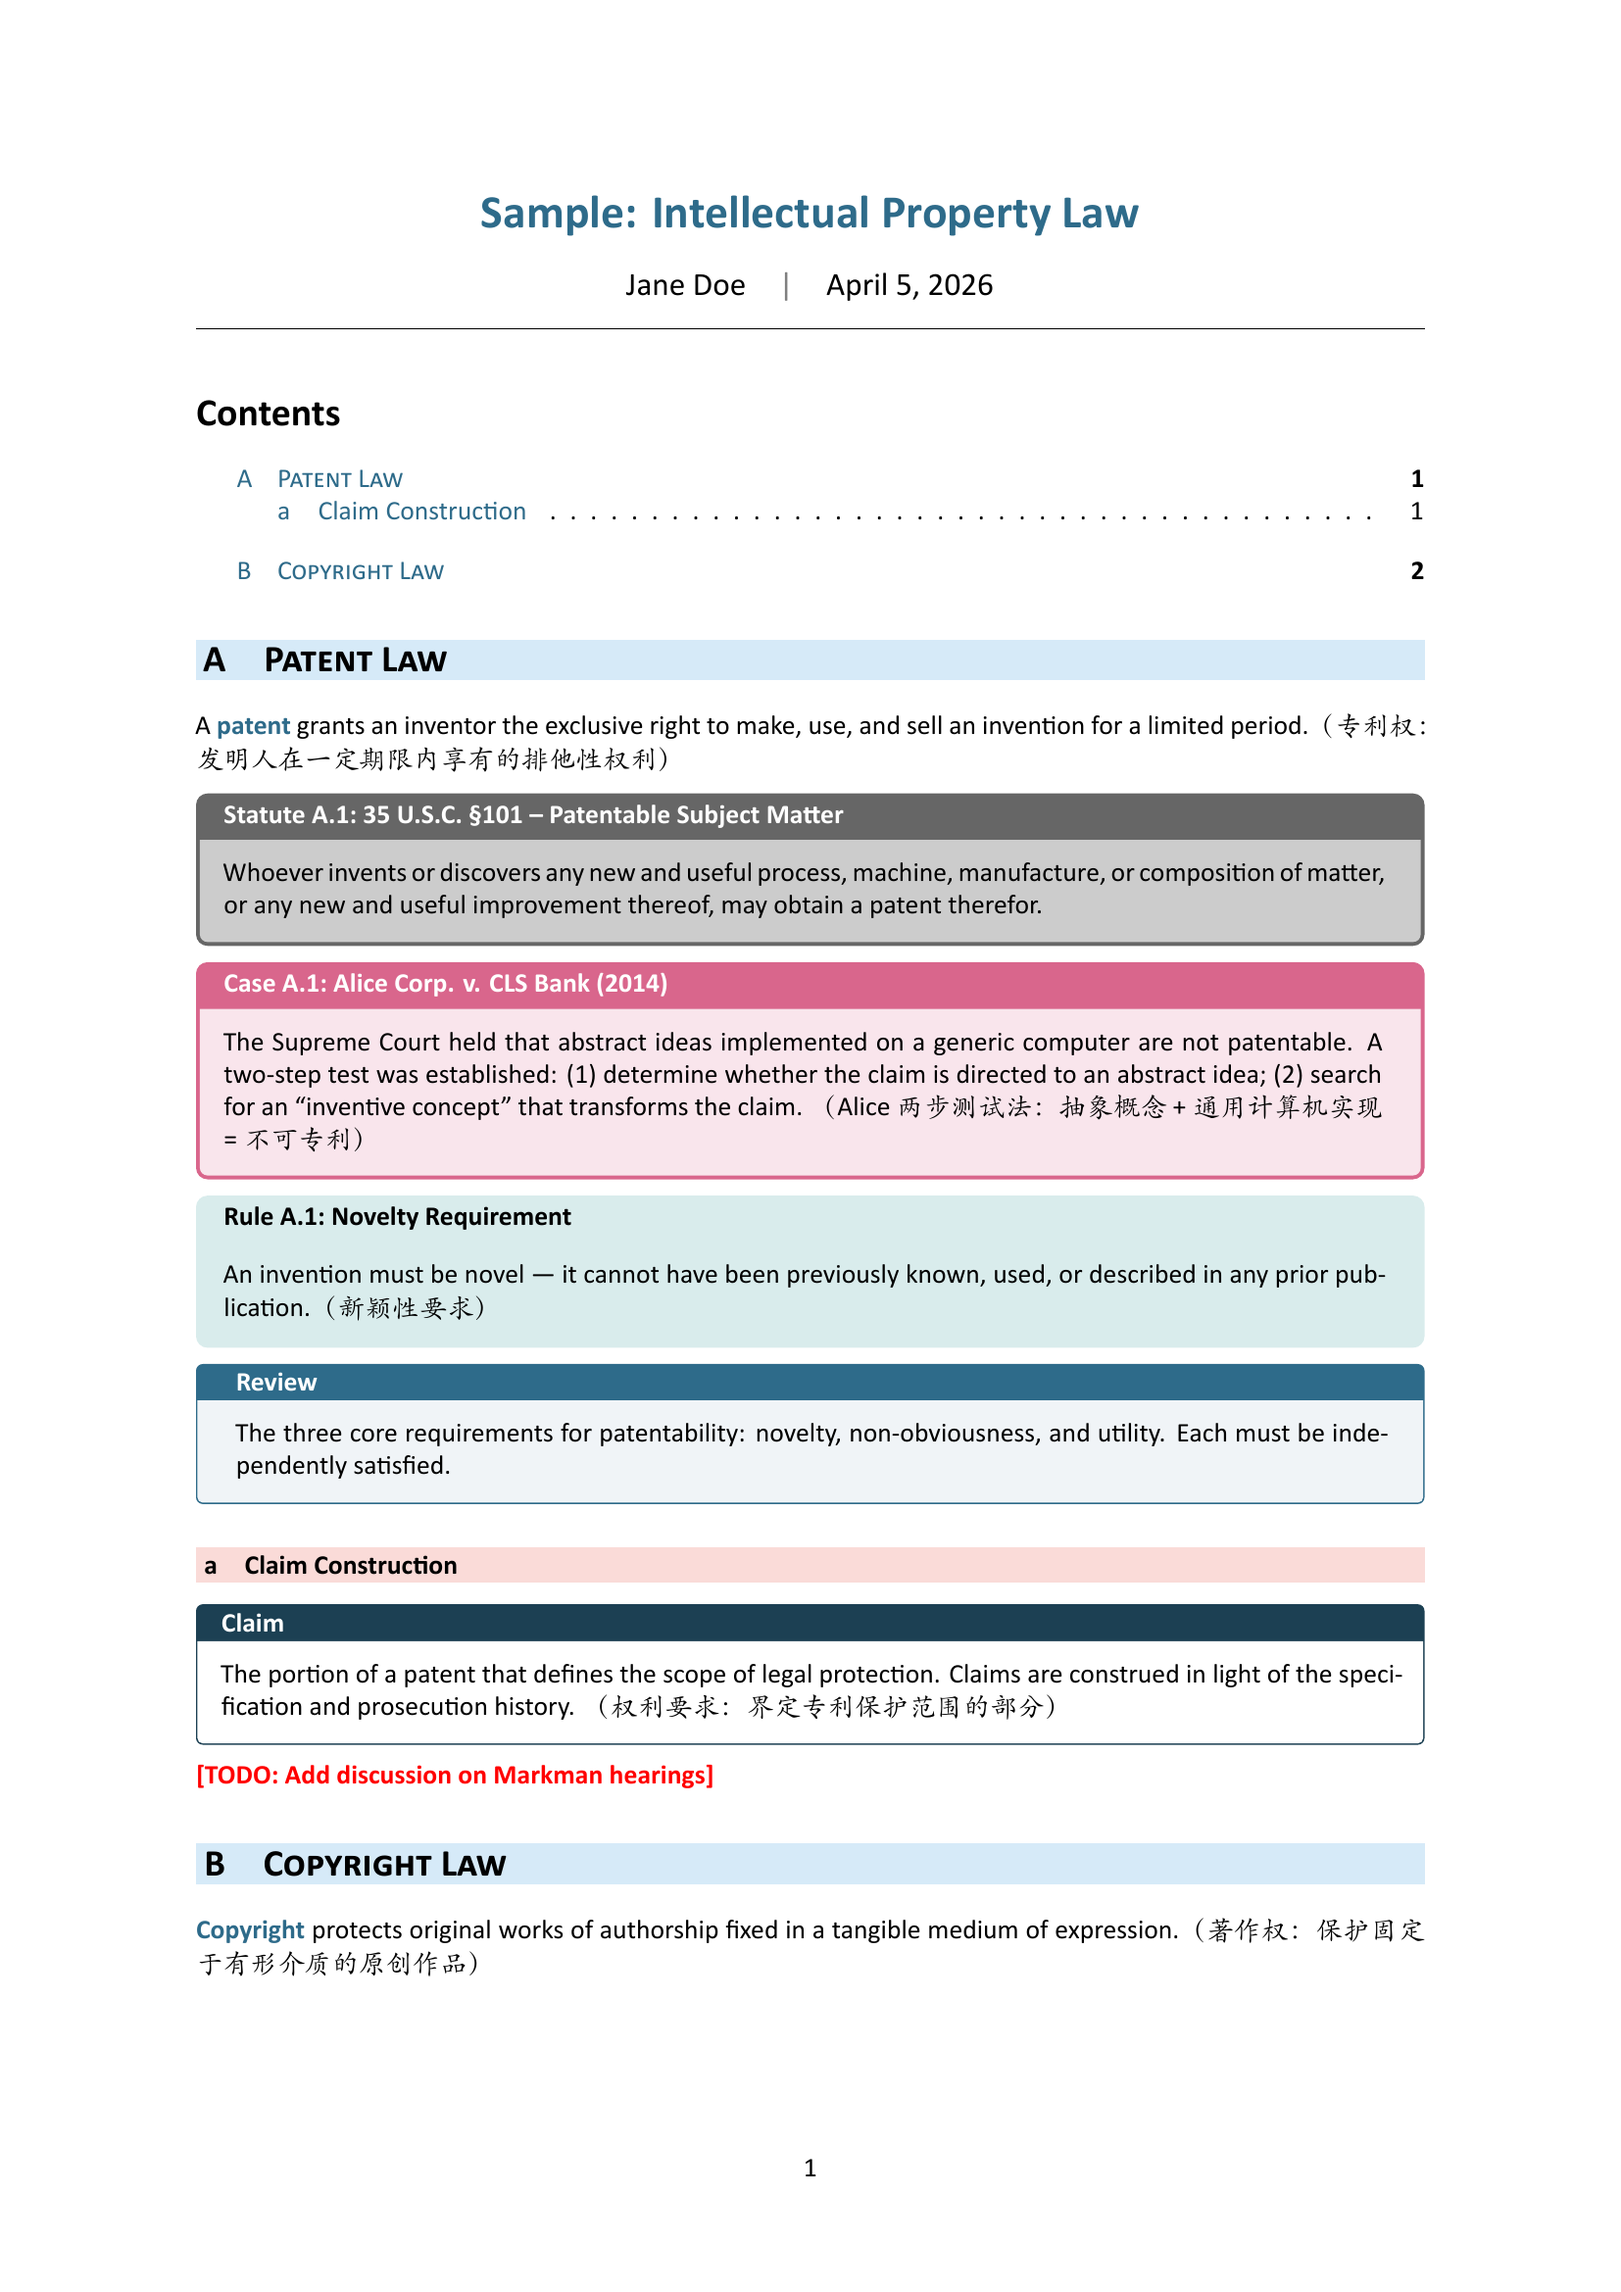
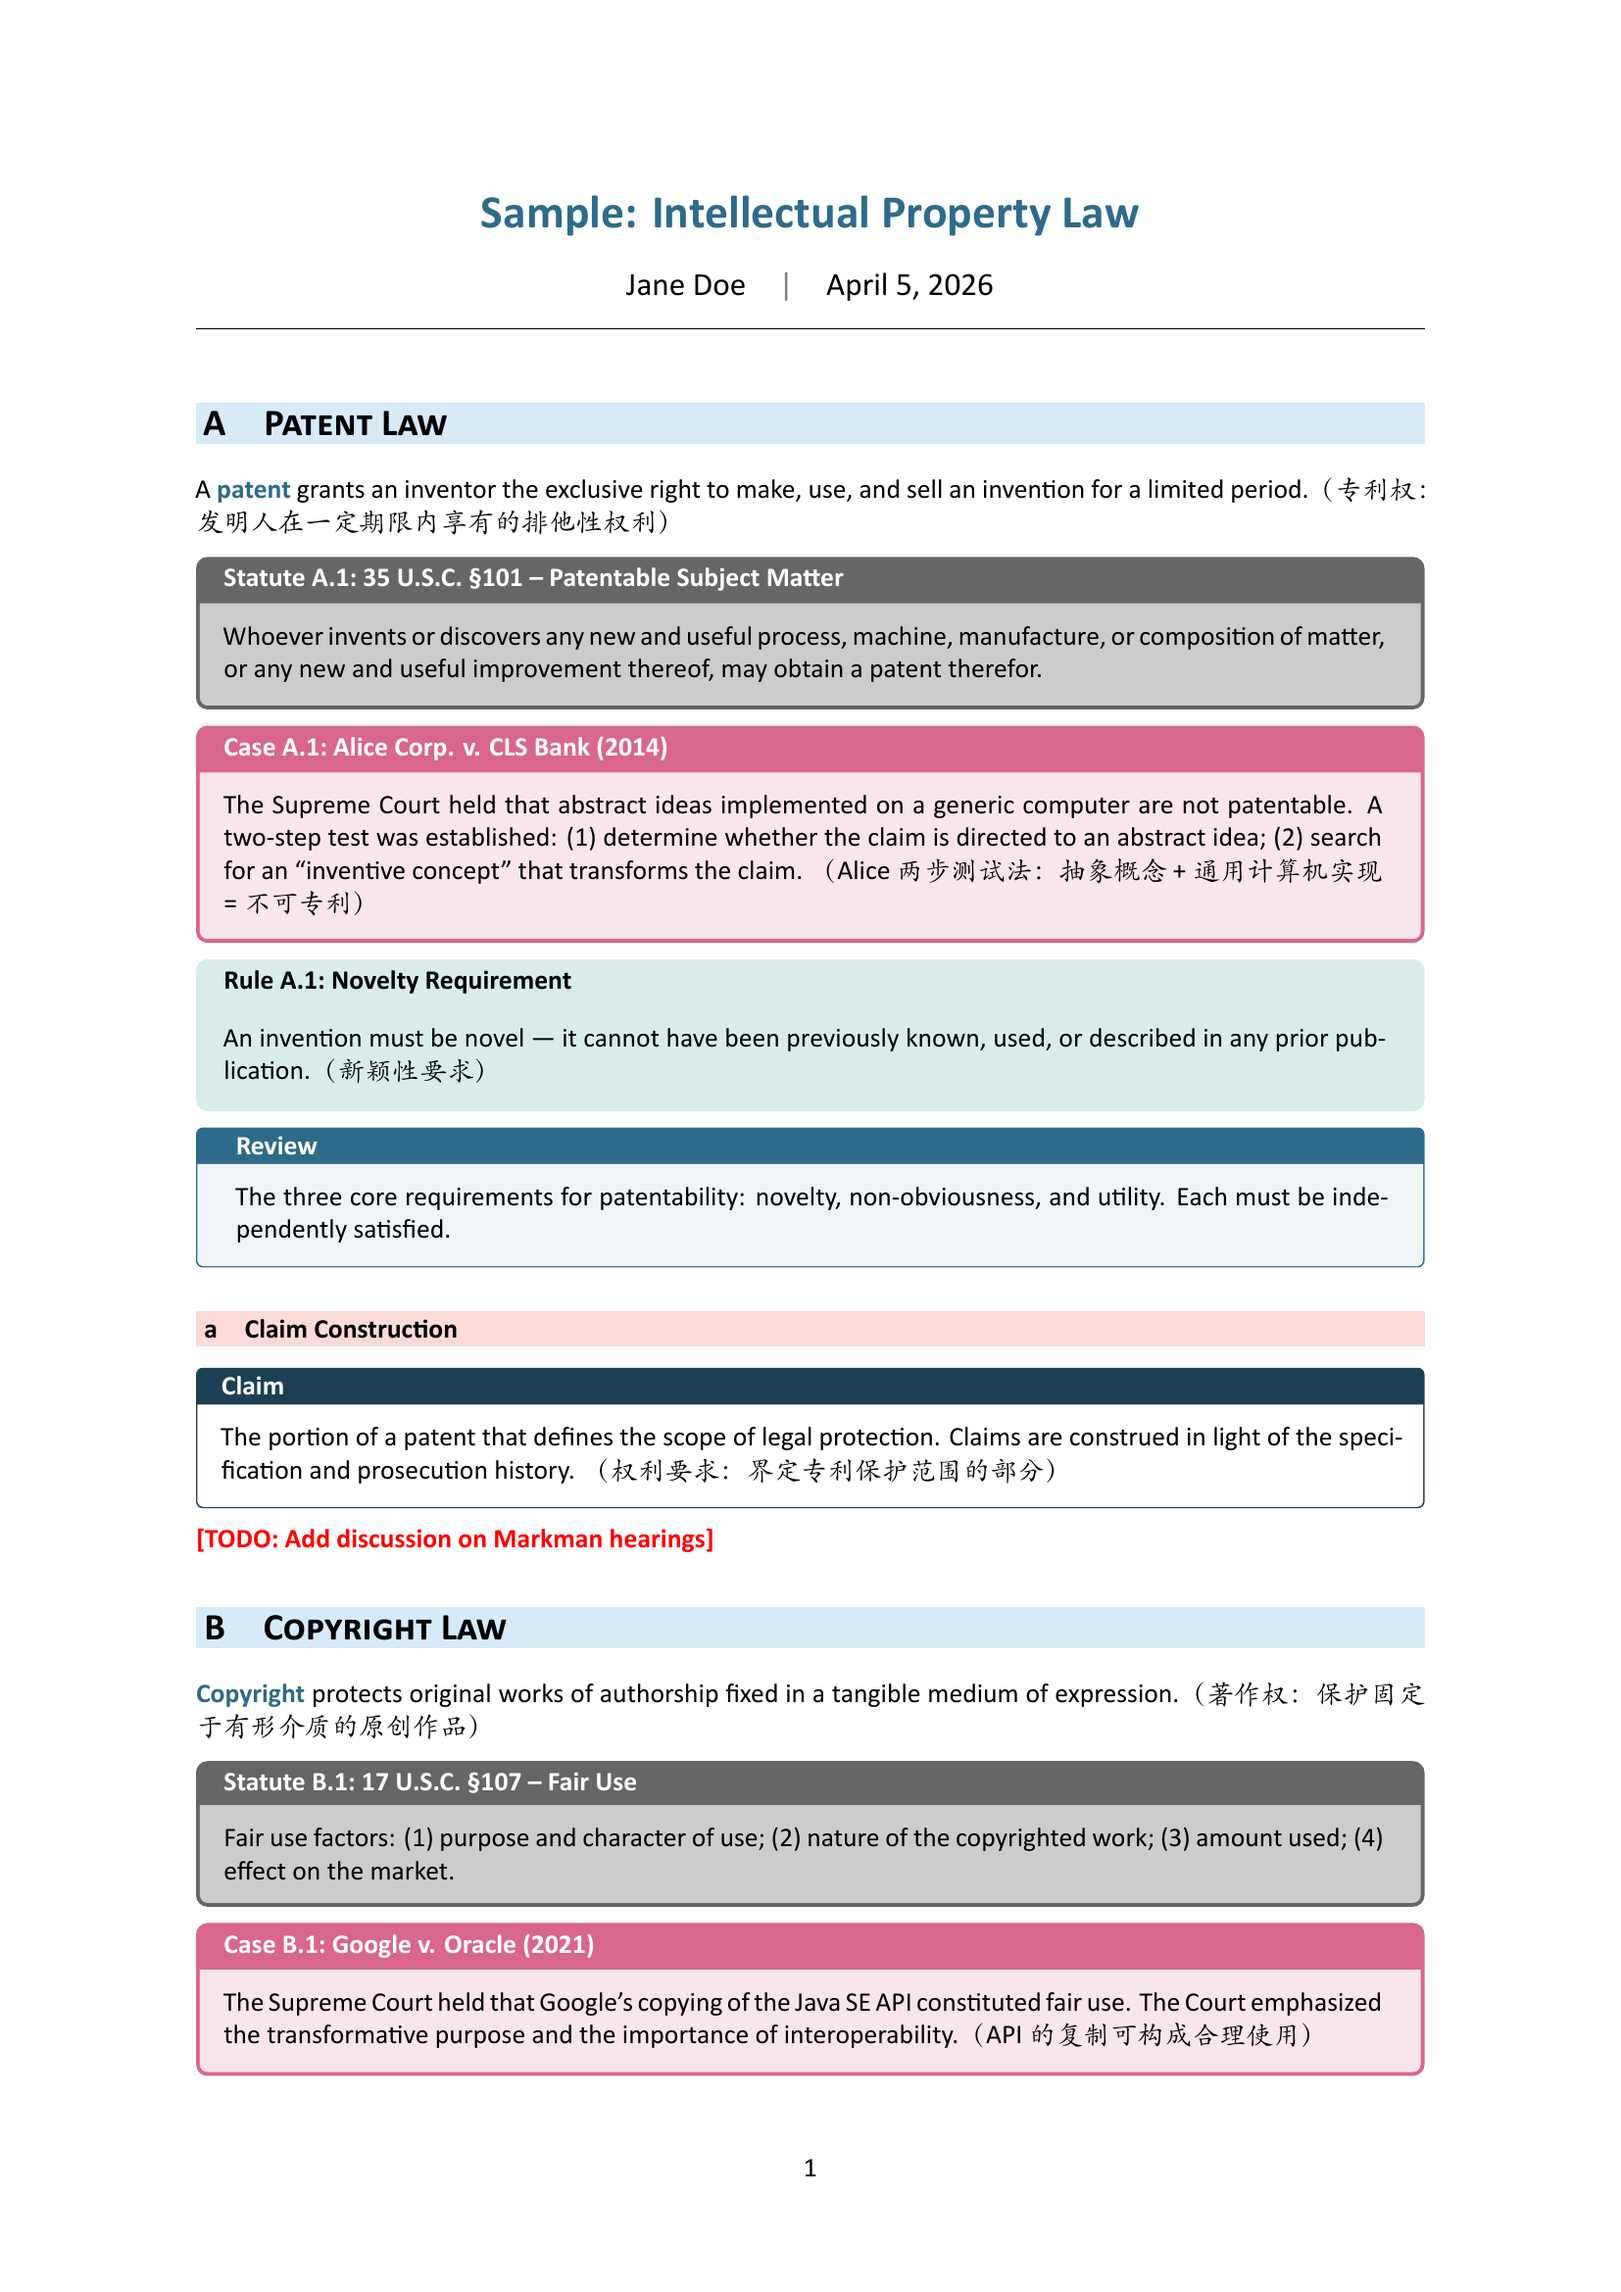
Add ctexbook support, remove chapter page breaks, update screenshots
- Add book option for ctexbook
- Chapter no longer forces page break (titleclass straight)
- TOC flows into content without clearpage
- Remove Contents title from TOC
- Add .gitignore for aux files
- Update screenshots with new layout

diff --git a/samples/sample-ml.tex b/samples/sample-ml.tex
@@ -1,12 +1,14 @@
-\documentclass[style=ml]{lexnote}
+\documentclass[rep, style=ml]{lexnote}
 
-\title{Sample: Diffusion Models}
+\title{Sample: Generative Models}
 \author{Jane Doe}
 \date{\today}
 
 \begin{document}
 \maketitle
 \tableofcontents
+
+\chapter{Diffusion Models}
 
 \section{Forward Process}
 
@@ -76,16 +78,47 @@ The \keyword{simplified loss} used in DDPM reduces to a denoising objective:
   （噪声预测等价于学习得分函数，与 score-based 模型统一）
 \end{rem}
 
-\begin{defbox}[Classifier-Free Guidance]
-  A technique that interpolates between conditional and unconditional
-  predictions to control generation quality vs.\ diversity:
-  $\hat{\boldsymbol{\epsilon}} = (1+w)\,\boldsymbol{\epsilon}_\theta(\mathbf{x}_t, t, c) - w\,\boldsymbol{\epsilon}_\theta(\mathbf{x}_t, t)$
+\chapter{Normalizing Flows}
+
+\section{Change of Variables}
+
+\begin{defn}[Normalizing Flow]
+  A normalizing flow transforms a simple base distribution $p_z(\mathbf{z})$
+  through a sequence of invertible mappings $f_1, f_2, \ldots, f_K$ to
+  produce a complex target distribution:
+  \[
+    \mathbf{x} = f_K \circ f_{K-1} \circ \cdots \circ f_1(\mathbf{z})
+  \]
+  （正则化流：通过可逆变换将简单分布映射为复杂分布）
+\end{defn}
+
+\begin{thm}[Change of Variables Formula]
+  If $f$ is an invertible differentiable function, the density of
+  $\mathbf{x} = f(\mathbf{z})$ is:
+  \[
+    p_x(\mathbf{x})
+    = p_z\!\bigl(f^{-1}(\mathbf{x})\bigr)\,
+      \left|\det \frac{\partial f^{-1}}{\partial \mathbf{x}}\right|
+  \]
+  （换元公式：变换后的密度由 Jacobian 行列式调整）
+\end{thm}
+
+\section{Architectures}
+
+\begin{defbox}[Coupling Layer]
+  Split the input $\mathbf{x}$ into two halves $(\mathbf{x}_a, \mathbf{x}_b)$.
+  Transform one conditioned on the other:
+  $\mathbf{y}_a = \mathbf{x}_a$,\quad
+  $\mathbf{y}_b = \mathbf{x}_b \odot \exp(s(\mathbf{x}_a)) + t(\mathbf{x}_a)$.
+  The Jacobian is triangular, so its determinant is cheap to compute.
 \end{defbox}
 
-\todo{Add section on DDIM and accelerated sampling}
+\begin{rem}[Practical Consideration]
+  Coupling layers are efficient ($O(D)$ Jacobian) but limited in
+  expressiveness per layer. Stacking many layers with alternating
+  partitions is essential for modeling complex distributions.
+\end{rem}
+
+\todo{Add chapter on VAEs}
 
 \end{document}
-%%% Local Variables:
-%%% mode: LaTeX
-%%% TeX-master: t
-%%% End:

diff --git a/README.md b/README.md
@@ -36,6 +36,7 @@ Both styles include: `notebox`, `defbox`, `\keyword{}`, `\todo{}`.
 ### ML style
 
 <img src="screenshots/sample-ml-1.png" width="600">
+<img src="screenshots/sample-ml-2.png" width="600">
 
 ## Requirements
 
